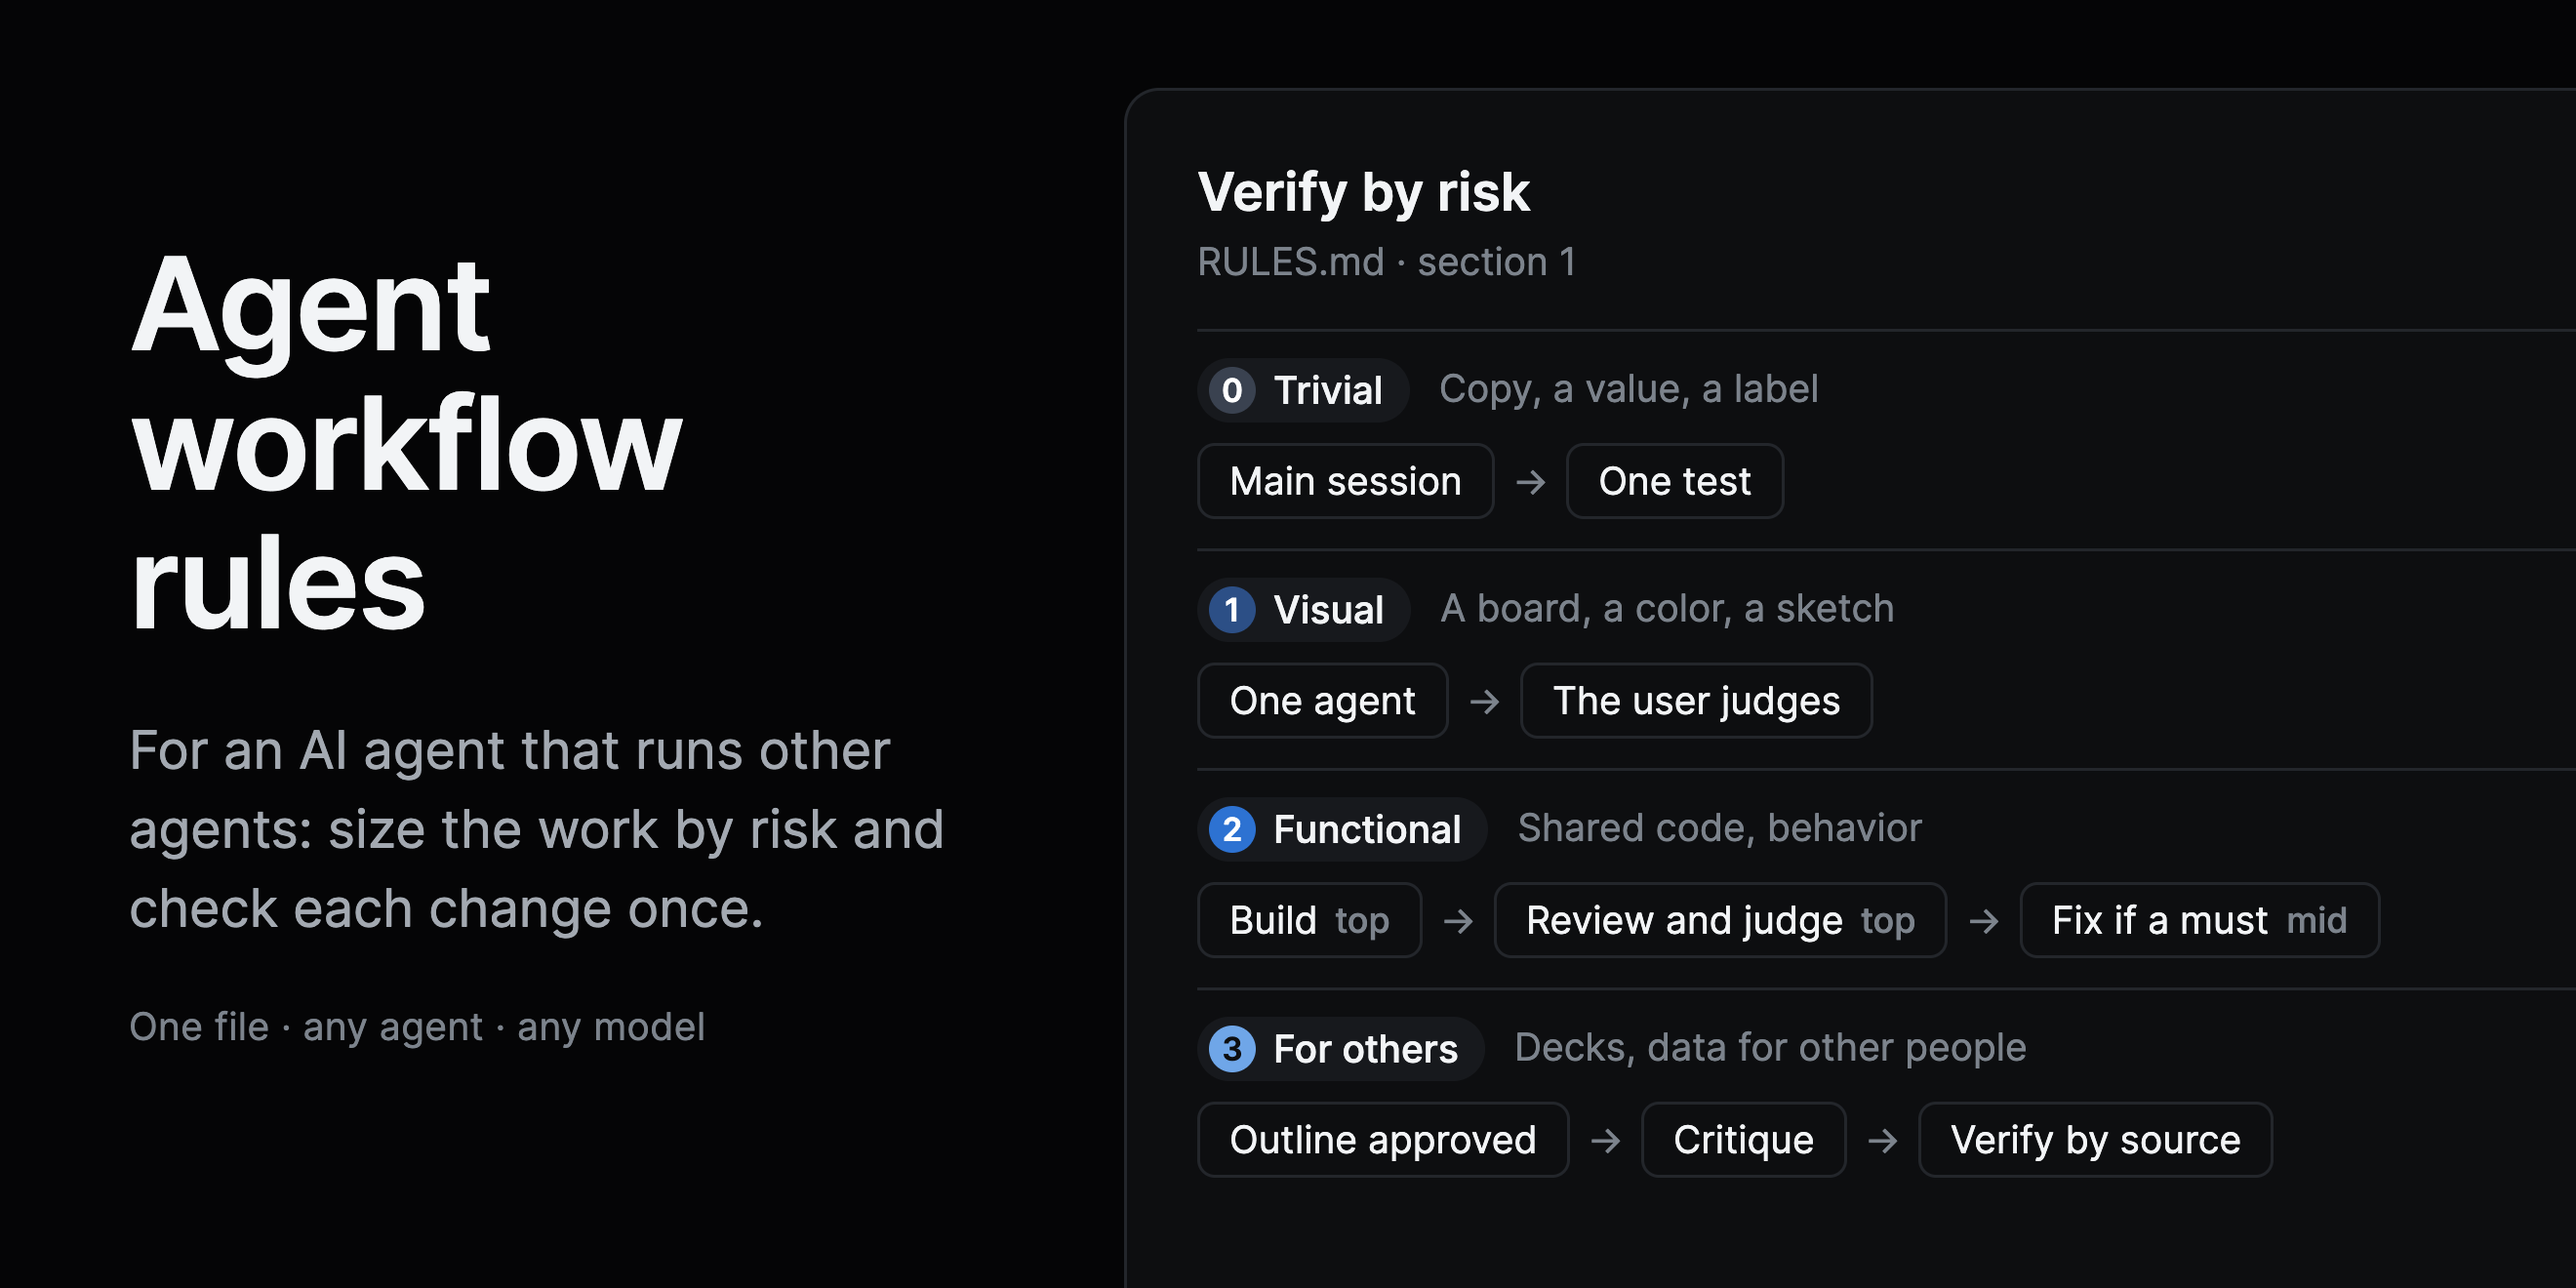
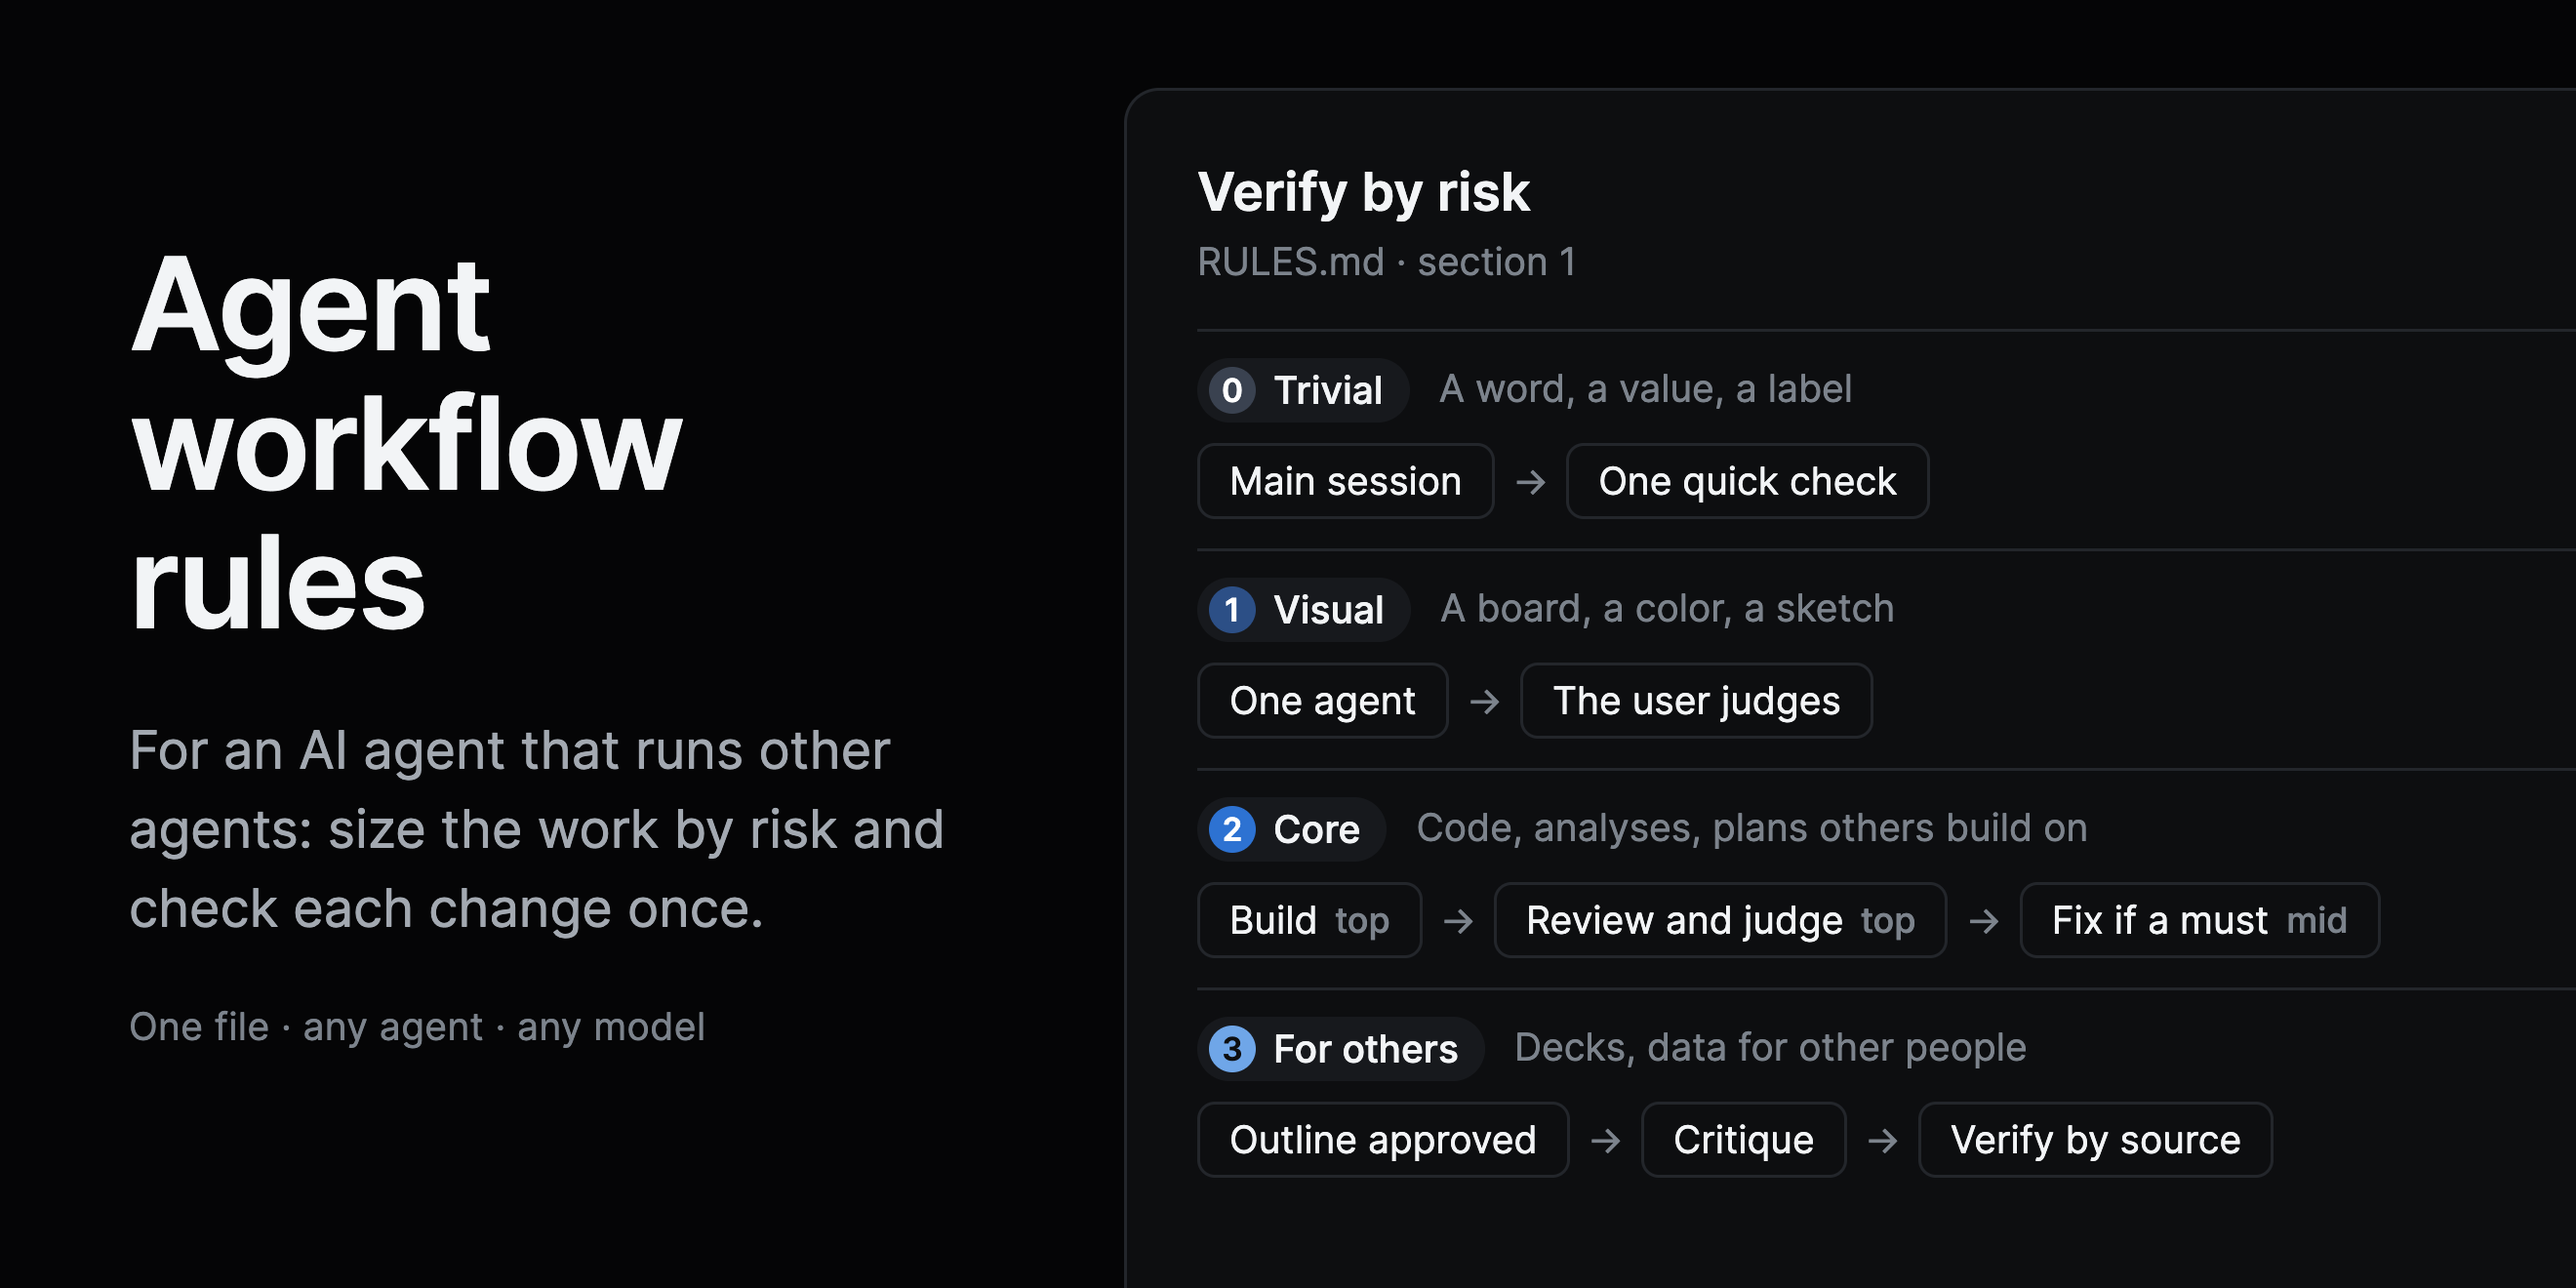
Level 2 covers work without code: analyses, plans and research

Changed region(s): [[0.497, 0.6212, 0.8076, 0.6523], [0.6523, 0.3417, 0.7455, 0.4038], [0.5591, 0.2795, 0.7144, 0.3106]]

diff --git a/docs/banner.html b/docs/banner.html
@@ -57,15 +57,15 @@
     <div class="sub">RULES.md · section 1</div>
     <div class="rows">
       <div class="row">
-        <div class="head"><span class="level"><i style="background:var(--l0)">0</i>Trivial</span><span class="what">Copy, a value, a label</span></div>
-        <div class="flow"><span class="step">Main session</span><span class="arrow">→</span><span class="step">One test</span></div>
+        <div class="head"><span class="level"><i style="background:var(--l0)">0</i>Trivial</span><span class="what">A word, a value, a label</span></div>
+        <div class="flow"><span class="step">Main session</span><span class="arrow">→</span><span class="step">One quick check</span></div>
       </div>
       <div class="row">
         <div class="head"><span class="level"><i style="background:var(--l1)">1</i>Visual</span><span class="what">A board, a color, a sketch</span></div>
         <div class="flow"><span class="step">One agent</span><span class="arrow">→</span><span class="step">The user judges</span></div>
       </div>
       <div class="row">
-        <div class="head"><span class="level"><i style="background:var(--l2)">2</i>Functional</span><span class="what">Shared code, behavior</span></div>
+        <div class="head"><span class="level"><i style="background:var(--l2)">2</i>Core</span><span class="what">Code, analyses, plans others build on</span></div>
         <div class="flow"><span class="step">Build <b>top</b></span><span class="arrow">→</span><span class="step">Review and judge <b>top</b></span><span class="arrow">→</span><span class="step">Fix if a must <b>mid</b></span></div>
       </div>
       <div class="row">

diff --git a/RULES.md b/RULES.md
@@ -12,7 +12,7 @@ Rules for an AI agent that runs other agents. They work with any agent tool and 
 2. **Intent in three lines:** what kind of piece it is, who it is for and what it has to achieve.
 3. **Model and effort set explicitly on every agent**, and the table of model and effort per phase shown in the reply.
 4. **AUTHORITY:** the user's latest message, verbatim and dated.
-5. **Minimum FRAMES:** the framing the user used, plus one risk state.
+5. **Minimum FRAMES** when there are captures: the framing the user used, plus one risk state.
 6. **Estimate in minutes and in tokens.** If a part needs more than 60 minutes, ask the user for permission to go past that limit before launching it.
 7. **The script passes the mechanical check** (section 9). If it fails, it does not launch.
 
@@ -20,9 +20,9 @@ Rules for an AI agent that runs other agents. They work with any agent tool and 
 
 | Level | What it is | Shape | How it is checked |
 |---|---|---|---|
-| 0 · Trivial | Copy, a value, a label, anything reversible | Directly in the main session | One capture or one test from the main session |
-| 1 · Visual | Something the user will look at anyway: a board, a color, a framing, a sketch | Directly, or a single agent that builds | No judge: send the capture and the user judges taste |
-| 2 · Functional | Shared code, data models, behavior | The archetype workflow (section 4) | One review-and-judge step |
+| 0 · Trivial | A word, a value, a label, anything reversible | Directly in the main session | One quick check from the main session: a test, a capture or a reread |
+| 1 · Visual | Something the user will look at anyway: a board, a color, a framing, a sketch, a first draft | Directly, or a single agent that builds | No judge: send it and the user judges |
+| 2 · Core | Work that other work builds on: shared code, a data model, an analysis, a plan, a research synthesis | The archetype workflow (section 4) | One review-and-judge step against the ask, with tests, captures or sources as evidence |
 | 3 · For others | Decks, data sheets, anything that leaves the team | The deliverables flow (section 5) | Critique, then verification by source |
 
 - **Level 0 is never a workflow.** Level 1 is a single agent that does the work and checks itself against the ask, with no review, judge or fix step, in 30 minutes at most.
@@ -44,6 +44,7 @@ Estimate from your own measured durations. The heaviest build steps vary the mos
 | Interface change with new behavior | 2 | Archetype. Two reviews in parallel (visual and code) only if code and view both change |
 | Change to core logic or a data model | 2 | Archetype. Build on the top model at high effort |
 | Research | 2 | Mid-model readers in parallel, top-model synthesis and a top-model critic that tries to refute it |
+| Analysis, plan or recommendation a decision rests on | 2 | Archetype. The build gives each claim its source; the judge checks claims, reasoning and gaps against the ask |
 | Deck, data sheet or email with data for others | 3 | Deliverables flow (section 5) |
 
 ## 3. Model and effort per phase
@@ -83,6 +84,7 @@ Estimate from your own measured durations. The heaviest build steps vary the mos
 - A minor must is closed with the fix's test or capture, without another agent.
 - At most two audit rounds. Whatever is still open goes to the user.
 - **If the user says they will review it, drop the judge** and the work becomes level 1. If the workflow is already running, stop it right after the build (section 9).
+- **Without code or screens** (research, analysis, plans), the evidence is sources and reasoning, not tests and captures. The build returns each claim with its source, and the judge checks the claims, the reasoning and what is missing against the ask.
 - **Review against the intent, not only against the reference.** Design critique asks first whether there is one clear idea carried through every part, with good proportion, few parts and honest construction. The reference can be wrong too.
 
 ## 5. The deliverables flow (level 3)

diff --git a/README.md b/README.md
@@ -29,7 +29,7 @@ These rules make the main session size the work before it launches anything, and
 
 **What they do differently:**
 
-- **Verification follows risk.** A copy change gets one test. A visual change goes to the user, who judges taste. Only shared code and behavior get a judge, and only work for other people gets verification by source.
+- **Verification follows risk.** A trivial edit gets one quick check. A visual change or a first draft goes to the user, who judges it. Only work that other work builds on gets a judge, whether it is code, an analysis or a plan, and only work for other people gets verification by source.
 - **Review and judge are one step.** One top-model agent reads the build's test results, reuses its captures and tries to prove the work is not done. A fix runs only if it finds a must.
 - **Every agent names its model.** Mechanical work goes to the small model, reading to the mid model, and judgment to the top model. Nothing inherits the session's model by accident.
 - **Every run has a size.** Each part is estimated in minutes and tokens, and a part over 60 minutes needs the user's permission before it launches.

diff --git a/CHANGELOG.md b/CHANGELOG.md
@@ -3,6 +3,7 @@
 ## 0.2.0 · 2026-10-19
 
 - A part estimated over 60 minutes asks the user for permission before it launches, instead of being split by default.
+- Level 2 is now "Core": work that other work builds on, with or without code. Analyses, plans and research are checked against sources instead of tests and captures.
 
 ## 0.1.0 · 2026-10-19
 
